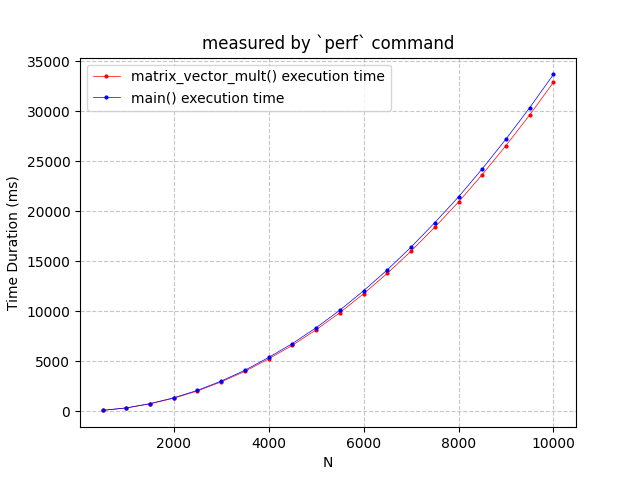
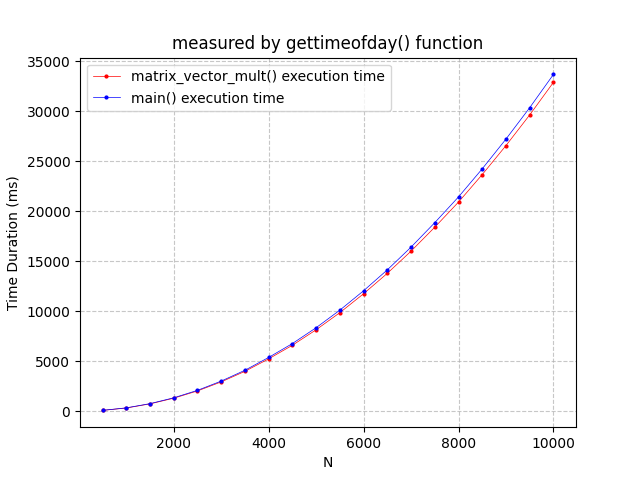
fix name error of gettimeofday figures

Changed region(s): [[0.2812, 0.0625, 0.75, 0.125]]

diff --git a/CS7331-master/code_samples/perf/task_3/gettimeofday/analysis_gettimeofday_result.py b/CS7331-master/code_samples/perf/task_3/gettimeofday/analysis_gettimeofday_result.py
@@ -27,6 +27,7 @@ for i in range(arg_try_times):
         with open(os.path.join(root_dir,sub_dir,f"N={n}.txt"), 'r') as file:
             content = file.read()
             flops = 2 * n**2
+            flops = 1
             matrix_pattern = re.compile(r'matrix_vector_mult execution time: ([\d.]+) ms')
             matrix_match = matrix_pattern.search(content)
             matrix_matchs[i].append(float(matrix_match.group(1))/flops)
@@ -34,8 +35,8 @@ for i in range(arg_try_times):
             total_match = total_pattern.search(content)
             total_matchs[i].append(float(total_match.group(1))/flops)
 
-matrix_matchs = np.mean(matrix_matchs, axis=1)*1000
-total_matchs = np.mean(total_matchs, axis=1)*1000
+matrix_matchs = np.mean(matrix_matchs, axis=1)
+total_matchs = np.mean(total_matchs, axis=1)
 
 n_values = np.arange(500, 10001, 500)
 
@@ -44,8 +45,8 @@ plt.plot(n_values, total_matchs, marker='o', linestyle='-', color='blue', label=
 
 # 设置坐标轴标签和标题
 plt.xlabel('N')
-plt.ylabel('Time Duration (us)')
-plt.title('measured by `perf` command')
+plt.ylabel('Time Duration (ms)')
+plt.title('measured by gettimeofday() function')
 
 # 添加网格线
 plt.grid(True, linestyle='--', alpha=0.7)
